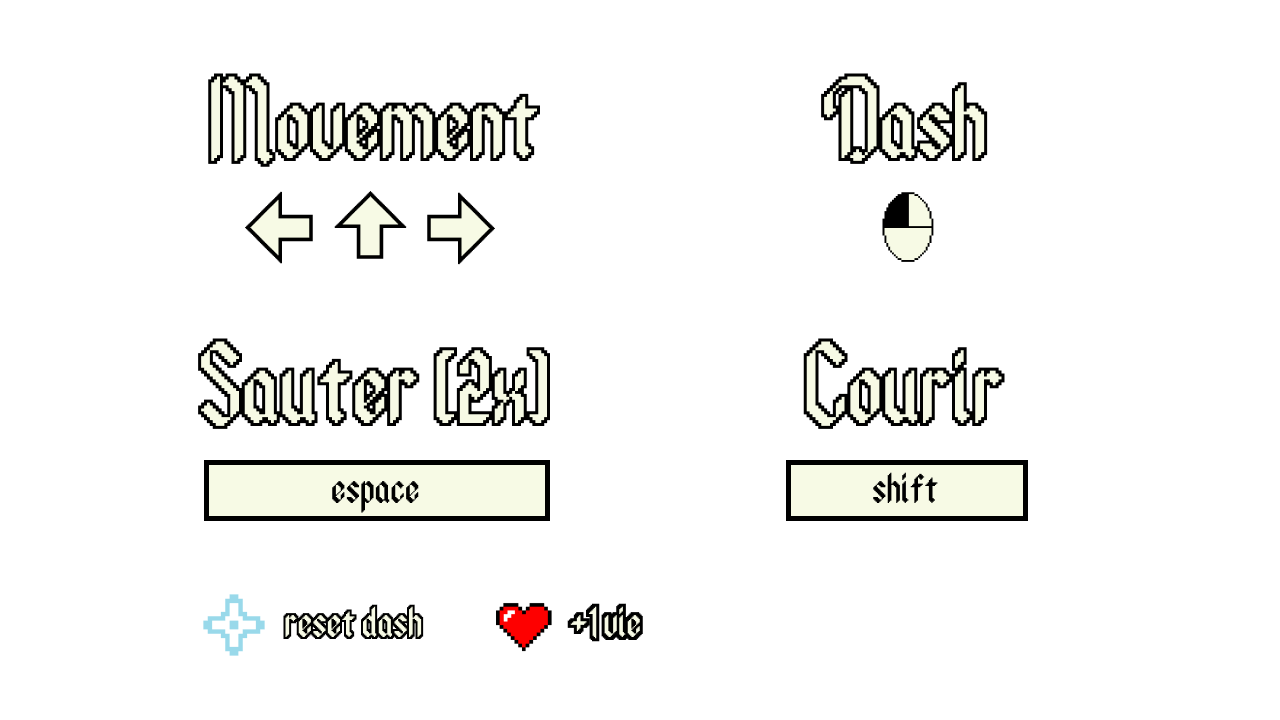
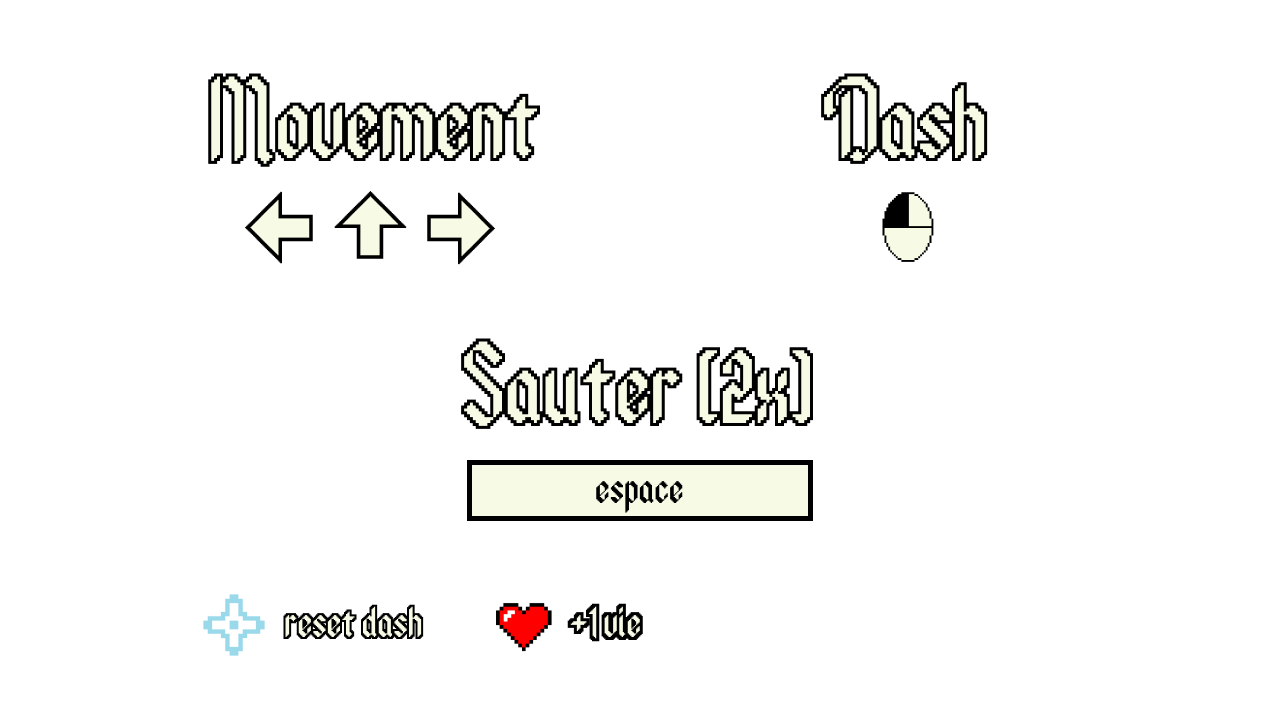
asdasd

Changed region(s): [[0.1562, 0.4583, 0.7812, 0.6111], [0.4062, 0.6417, 0.8125, 0.7333], [0.1562, 0.6417, 0.375, 0.7333]]

diff --git a/lu_tingyung_Gluttony/src/scripts/scenes/Jeu.js b/lu_tingyung_Gluttony/src/scripts/scenes/Jeu.js
@@ -43,9 +43,8 @@ class Jeu extends Phaser.Scene {
         // Joueur
         this.player = this.physics.add.sprite(50, 250, "player");
         this.player
-            .setScale(1)
-            .setSize(16, 16)
-            .setOffset(9, 16);
+            .setSize(16, 32)
+            .setOffset(5, 0);
         this.player.body.setGravityY(1000);
         this.player.hp = 3;
 
@@ -93,7 +92,19 @@ class Jeu extends Phaser.Scene {
             this.jumpKeyReleased = true;
         });
 
-        this.physics.add.collider(this.player, collisionLayer2);
+        this.physics.add.collider(this.player, collisionLayer2, () => {
+            if (this.dash_left_up) {
+                this.dash_left_up.stop();
+            } else if (this.dash_right_up) {
+                this.dash_right_up.stop();
+            } else if (this.dash_up) {
+                this.dash_up.stop();
+            } else if (this.dash_left) {
+                this.dash_left.stop();
+            } else if (this.dash_right) {
+                this.dash_right.stop();
+            }
+        });
 
         this.physics.add.collider(this.player, goalLayer, () => {
             // Sauvegarde le jeu à l'objectif
@@ -176,14 +187,8 @@ class Jeu extends Phaser.Scene {
     }
 
     handleMovement() {
-        const walkSpeed = 125;
-        const runSpeed = 225;
+        const walkSpeed = 200;
         let velocity = walkSpeed;
-
-        // Run
-        if (this.keys.shift.isDown) {
-            velocity = runSpeed;
-        }
 
         // Déplacements
         if (this.keys.left.isDown) {
@@ -214,7 +219,7 @@ class Jeu extends Phaser.Scene {
         // Dash
         this.input.on('pointerdown', (pointer) => {
             if (pointer.leftButtonDown() && this.keys.up.isDown && this.keys.left.isDown && this.player.alpha == 1) {
-                this.tweens.add({
+                this.dash_left_up = this.tweens.add({
                     targets: this.player,
                     x: this.player.x - 80,
                     y: this.player.y - 80,
@@ -223,7 +228,7 @@ class Jeu extends Phaser.Scene {
                 this.dash()
                 this.player.setVelocityY(-100);
             } else if (pointer.leftButtonDown() && this.keys.up.isDown && this.keys.right.isDown & this.player.alpha == 1) {
-                this.tweens.add({
+                this.dash_right_up = this.tweens.add({
                     targets: this.player,
                     x: this.player.x + 80,
                     y: this.player.y - 80,
@@ -232,7 +237,7 @@ class Jeu extends Phaser.Scene {
                 this.dash()
                 this.player.setVelocityY(-100);
             } else if (pointer.leftButtonDown() && this.keys.up.isDown && this.player.alpha == 1) {
-                this.tweens.add({
+                this.dash_up = this.tweens.add({
                     targets: this.player,
                     y: this.player.y - 80,
                     duration: 100
@@ -240,14 +245,14 @@ class Jeu extends Phaser.Scene {
                 this.dash()
                 this.player.setVelocityY(-100)
             } else if (pointer.leftButtonDown() && this.player.flipX && this.player.alpha == 1) {
-                this.tweens.add({
+                this.dash_left = this.tweens.add({
                     targets: this.player,
                     x: this.player.x - 80,
                     duration: 100
                 })
                 this.dash()
             } else if (pointer.leftButtonDown() && this.player.alpha == 1) {
-                this.tweens.add({
+                this.dash_right = this.tweens.add({
                     targets: this.player,
                     x: this.player.x + 80,
                     duration: 100

diff --git a/lu_tingyung_Gluttony/src/scripts/scenes/Jeu2.js b/lu_tingyung_Gluttony/src/scripts/scenes/Jeu2.js
@@ -52,9 +52,8 @@ class Jeu2 extends Phaser.Scene {
         // Joueur
         this.player = this.physics.add.sprite(300, 1200, "player");
         this.player
-            .setScale(1)
-            .setSize(16, 16)
-            .setOffset(9, 16);
+            .setSize(16, 32)
+            .setOffset(5, 0);
         this.player.body.setGravityY(1000);
         this.jumpCount = 0;
         this.jumpKeyReleased = true;
@@ -102,7 +101,19 @@ class Jeu2 extends Phaser.Scene {
             this.jumpKeyReleased = true;
         });
 
-        this.physics.add.collider(this.player, collisionLayer2);
+        this.physics.add.collider(this.player, collisionLayer2, () => {
+            if (this.dash_left_up) {
+                this.dash_left_up.stop();
+            } else if (this.dash_right_up) {
+                this.dash_right_up.stop();
+            } else if (this.dash_up) {
+                this.dash_up.stop();
+            } else if (this.dash_left) {
+                this.dash_left.stop();
+            } else if (this.dash_right) {
+                this.dash_right.stop();
+            }
+        });
 
         this.physics.add.collider(this.player, goalLayer, () => {
             this.doorSound.play();
@@ -179,14 +190,8 @@ class Jeu2 extends Phaser.Scene {
     }
 
     handleMovement() {
-        const walkSpeed = 125;
-        const runSpeed = 225;
+        const walkSpeed = 200;
         let velocity = walkSpeed;
-
-        // Run
-        if (this.keys.shift.isDown) {
-            velocity = runSpeed;
-        }
 
         // Déplacements
         if (this.keys.left.isDown) {

diff --git a/lu_tingyung_Gluttony/src/scripts/init.js b/lu_tingyung_Gluttony/src/scripts/init.js
@@ -6,7 +6,10 @@ const config = {
   scene: [Loading, Accueil, Jeu, Jeu2, CommentJouer, Credits, PartieTerminee, Victoire],
   pixelArt: true,
   physics: {
-    default: "arcade"
+    default: "arcade",
+    arcade: {
+      debug: false
+    }
   }
 };
 const game = new Phaser.Game(config);
